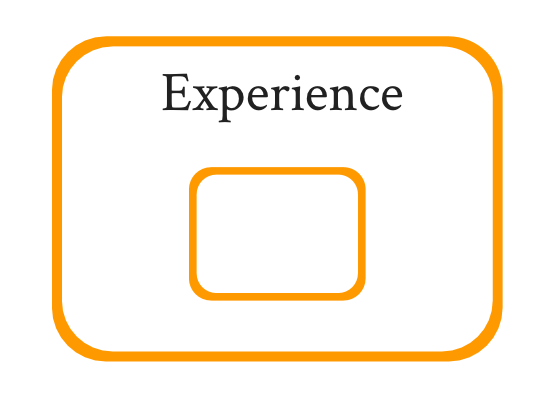
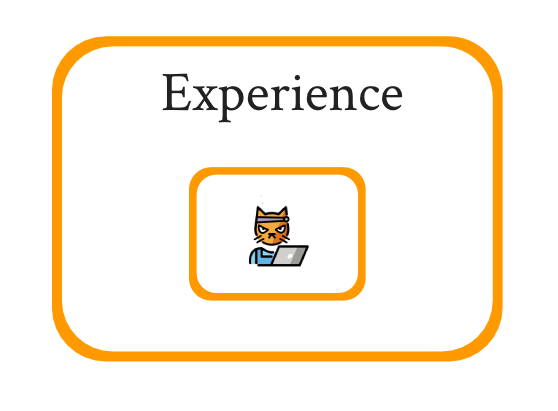
Add new cursors

Changed region(s): [[0.4265, 0.4964, 0.5484, 0.6715]]

diff --git a/index.css b/index.css
@@ -1,9 +1,12 @@
 body, html {
-    cursor: url(images/cursor.png), auto;
-	height: 100%;
-	margin: 0;
-	font-family: 'Crimson Text', serif;
-	color:white;
+  cursor: url("cursors/default.png"), auto;
+  height: 100%;
+  margin: 0;
+  font-family: 'Crimson Text', serif;
+  color:white;
+}
+body a :hover, html a :hover{
+  cursor: url("cursors/link.png"), auto;
 }
 #bg-1, #bg-2, #bg-3, #bg-4 {
 	position: relative;

diff --git a/cursors/README.md b/cursors/README.md
@@ -1,0 +1,1 @@
+Cursor emojis designed by OpenMoji – the open-source emoji and icon project. License: CC BY-SA 4.0
